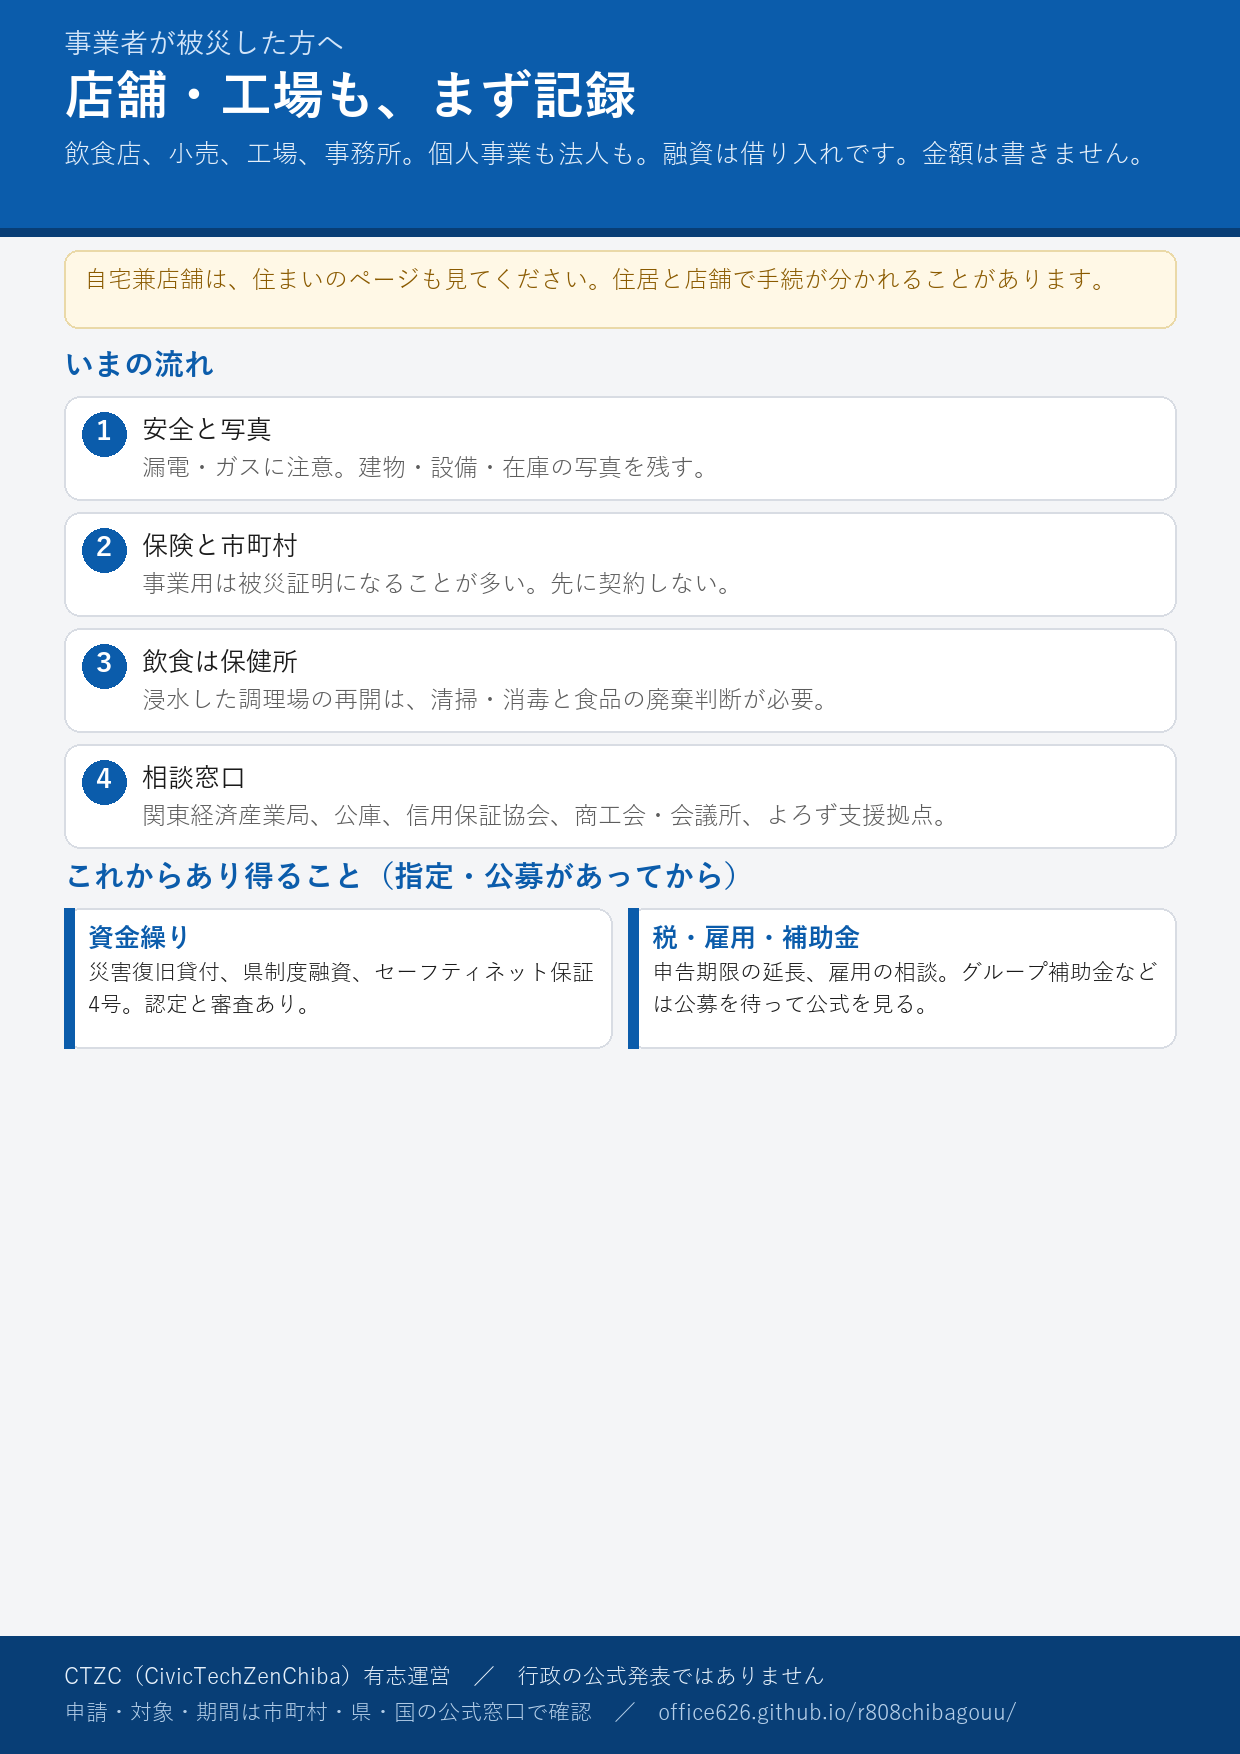
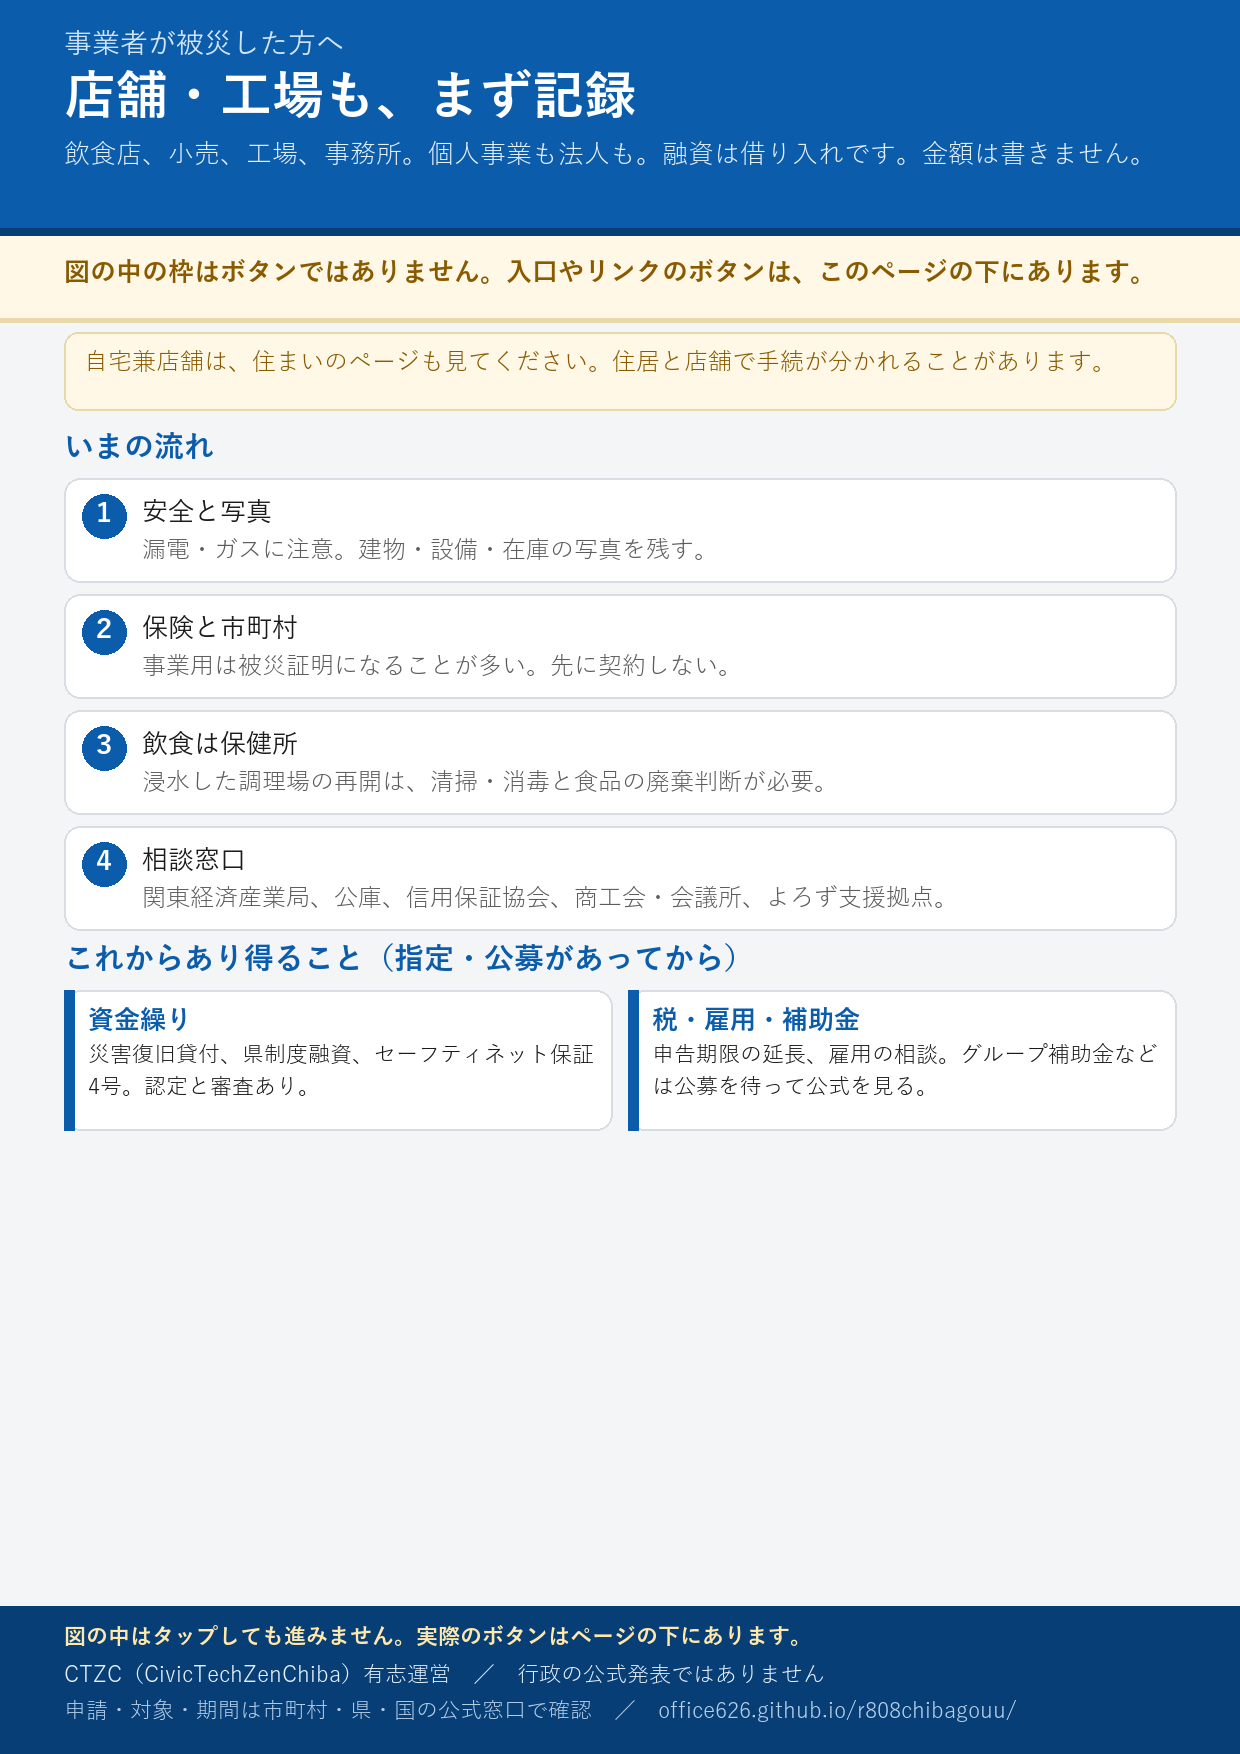
要点図がボタンに見える誤タップを防ぐ注意を足し、投票の初期並びを項目順にする。

diff --git a/site/supporters/ideas.html b/site/supporters/ideas.html
@@ -17,16 +17,17 @@
   </header>
   <main>
     <h1>被災後にあるとよいこと（投票）</h1>
+    <p class="notice infographic-hint"><strong>この図はボタンではありません。</strong> 実際の投票ボタンは、<a href="#page-actions">図の下</a>にあります。</p>
     <figure class="infographic">
-      <img src="../img/info-ideas.png" width="1240" height="1754" alt="A4縦の要点図。今後の案への投票。ログイン不要、1案1票、氏名は取らない。結果は参考値。救命や現地マッチングは対象外。">
-      <figcaption>このページの要点（A4縦）。印刷や画像保存ができます。<a href="../img/info-ideas.png" download>画像を保存</a></figcaption>
+      <img src="../img/info-ideas.png" width="1240" height="1754" alt="A4縦の要点図。図の中はボタンではない。実際の投票はページの下。">
+      <figcaption>このページの要点（A4縦）。図をタップしても進みません。ボタンは下にあります。<a href="../img/info-ideas.png" download>画像を保存</a></figcaption>
     </figure>
     <p class="notice" id="ideas-note">
       案は今後の機能追加や新しいサービスの参考にします。個人情報は取りません。申請・被害の申告は公式窓口へ。
     </p>
     <p id="tally" class="meta"></p>
     <p id="top-pick" class="notice" hidden></p>
-    <div class="idea-toolbar">
+    <div class="idea-toolbar" id="page-actions">
       <div class="chips" role="group" aria-label="種類で絞る">
         <button type="button" class="chip on" data-filter="all">すべて</button>
         <button type="button" class="chip" data-filter="info">情報</button>
@@ -35,6 +36,7 @@
       </div>
       <label class="sort-label">並び替え
         <select id="sort">
+          <option value="order" selected>項目順</option>
           <option value="votes">票が多い順</option>
           <option value="category">種類ごと</option>
         </select>

diff --git a/site/resident/municipality.html b/site/resident/municipality.html
@@ -21,12 +21,13 @@
   </header>
   <main>
     <h1 id="title">読み込み中</h1>
+    <p class="notice infographic-hint"><strong>この図はボタンではありません。</strong> 実際のボタンは、<a href="#page-actions">図の下</a>にあります。</p>
     <figure class="infographic">
-      <img src="../img/info-municipality.png" width="1240" height="1754" alt="A4縦の要点図。市町村ページの見方。いま、報道、支援策、行政の記録、生活再建の段取り。報道は見出しとリンクのみ。">
-      <figcaption>このページの要点（A4縦）。印刷や画像保存ができます。<a href="../img/info-municipality.png" download>画像を保存</a></figcaption>
+      <img src="../img/info-municipality.png" width="1240" height="1754" alt="A4縦の要点図。図の中はボタンではない。実際のボタンはページの下。市町村ページの見方。">
+      <figcaption>このページの要点（A4縦）。図をタップしても進みません。ボタンは下にあります。<a href="../img/info-municipality.png" download>画像を保存</a></figcaption>
     </figure>
     <p class="notice">有志による要約です。申請は公式へ。数値は速報で変わります。報道は見出しとリンクのみで、記事全文は転載していません。</p>
-    <p><a class="btn" id="official" href="#" target="_blank" rel="noopener">公式サイトへ</a>
+    <p id="page-actions"><a class="btn" id="official" href="#" target="_blank" rel="noopener">公式サイトへ</a>
       <a class="btn secondary" id="bousai" href="#" target="_blank" rel="noopener" hidden>防災・災害ページ</a>
       <a class="btn secondary" href="housing.html">住まいが被災した方へ</a>
       <a class="btn secondary" href="business.html">事業者が被災した方へ</a></p>

diff --git a/site/supporters/index.html b/site/supporters/index.html
@@ -20,12 +20,13 @@
       <img src="../img/chiba-recovery-banner.jpg" width="1024" height="537" alt="令和8年8月千葉豪雨からの復旧のために。主催：CivicTechZenChiba。地図とパソコンを囲んで復旧を話し合う人たちのイラスト。">
     </p>
     <h1>支援・協働する方へ</h1>
+    <p class="notice infographic-hint"><strong>この図はボタンではありません。</strong> 実際のボタンは、<a href="#page-actions">図の下</a>にあります。</p>
     <figure class="infographic">
-      <img src="../img/info-supporters.png" width="1240" height="1754" alt="A4縦の要点図。公開情報の収集と拡散、Slack、投票。救命や現地マッチング、罹災調査そのものは担わない。">
-      <figcaption>このページの要点（A4縦）。印刷や画像保存ができます。<a href="../img/info-supporters.png" download>画像を保存</a></figcaption>
+      <img src="../img/info-supporters.png" width="1240" height="1754" alt="A4縦の要点図。図の中はボタンではない。実際のボタンはページの下。Slackと投票。">
+      <figcaption>このページの要点（A4縦）。図をタップしても進みません。ボタンは下にあります。<a href="../img/info-supporters.png" download>画像を保存</a></figcaption>
     </figure>
     <p>豪雨被害から一刻も早い復旧を支援する活動。まずは行政・報道の公開情報を集め、県民の皆様へ情報を届ける活動から着手します。今後新たな支援策も検討し実行していきます。</p>
-    <p>
+    <p id="page-actions">
       <a class="btn" href="https://civictechzenchiba.slack.com/archives/C0BPSMN4L5D">Slack に参加する</a>
       <a class="btn secondary" href="ideas.html">今後の案に投票する</a>
     </p>

diff --git a/site/index.html b/site/index.html
@@ -13,15 +13,16 @@
   </header>
   <main>
     <h1>令和8年8月千葉豪雨 復興支援ポータル</h1>
+    <p class="notice infographic-hint"><strong>この図はボタンではありません。</strong> 実際の入口は、<a href="#page-actions">図の下</a>にあります。</p>
     <figure class="infographic">
-      <img src="img/info-portal.png" width="1240" height="1754" alt="A4縦の要点図。千葉県にお住まいの方へと支援者向けの二つの入口。公式が一次情報、数値は速報、申請は窓口へ。CTZC有志運営で行政の公式発表ではない。">
-      <figcaption>このページの要点（A4縦）。印刷や画像保存ができます。<a href="img/info-portal.png" download>画像を保存</a></figcaption>
+      <img src="img/info-portal.png" width="1240" height="1754" alt="A4縦の要点図。図の中はボタンではない。実際の入口はページの下。千葉県にお住まいの方へと支援者向け。公式が一次情報。CTZC有志運営。">
+      <figcaption>このページの要点（A4縦）。図をタップしても進みません。ボタンは下にあります。<a href="img/info-portal.png" download>画像を保存</a></figcaption>
     </figure>
     <p class="notice">
       本サイトは CTZC の有志による運営であり、<strong>行政の公式発表ではありません</strong>。
       申請・問い合わせは千葉県および各市町村の公式窓口へ。最新情報は必ず公式サイトで確認してください。
     </p>
-    <div class="doors">
+    <div class="doors" id="page-actions">
       <a class="door" href="resident/index.html">
         <strong>千葉県にお住まいの方へ</strong>
         被害の経過と、住まい・移動・事業者・支援策を見る

diff --git a/site/resident/business.html b/site/resident/business.html
@@ -20,15 +20,16 @@
   </header>
   <main>
     <h1>事業者が被災した方へ</h1>
+    <p class="notice infographic-hint"><strong>この図はボタンではありません。</strong> 実際のリンクは、<a href="#page-actions">図の下</a>にあります。</p>
     <figure class="infographic">
-      <img src="../img/info-business.png" width="1240" height="1754" alt="A4縦の要点図。店舗工場はまず記録。保険と市町村、飲食は保健所、相談は経産局や公庫など。融資保証や補助金は指定・公募があってから。">
-      <figcaption>このページの要点（A4縦）。印刷や画像保存ができます。<a href="../img/info-business.png" download>画像を保存</a></figcaption>
+      <img src="../img/info-business.png" width="1240" height="1754" alt="A4縦の要点図。図の中はボタンではない。実際のリンクはページの下。店舗工場はまず記録。相談は経産局や公庫など。">
+      <figcaption>このページの要点（A4縦）。図をタップしても進みません。ボタンは下にあります。<a href="../img/info-business.png" download>画像を保存</a></figcaption>
     </figure>
     <p class="notice">
       飲食店・小売・工場・事務所など、事業用の施設や設備が被災した方向けの案内です。有志運営であり申請窓口ではありません。対象・期間・受付開始は公式で確認してください。金額は書きません。適用可否は各実施機関の判断です。
     </p>
 
-    <div class="card">
+    <div class="card" id="page-actions">
       <h2>このページの対象</h2>
       <p>店舗を開いている方、工場や倉庫、事業所です。個人事業も法人も含みます。</p>
       <ul>

diff --git a/site/resident/housing.html b/site/resident/housing.html
@@ -20,15 +20,16 @@
   </header>
   <main>
     <h1>住まいが被災した方へ</h1>
+    <p class="notice infographic-hint"><strong>この図はボタンではありません。</strong> 実際のリンクは、<a href="#page-actions">図の下</a>にあります。</p>
     <figure class="infographic">
-      <img src="../img/info-housing.png" width="1240" height="1754" alt="A4縦の要点図。片付け前に写真、契約前に市町村案内、保険へ連絡。罹災証明書は住まい、被災証明書は事業所や車庫。先に修理契約すると公費補助が受けられない場合がある。">
-      <figcaption>このページの要点（A4縦）。印刷や画像保存ができます。<a href="../img/info-housing.png" download>画像を保存</a></figcaption>
+      <img src="../img/info-housing.png" width="1240" height="1754" alt="A4縦の要点図。図の中はボタンではない。実際のリンクはページの下。片付け前に写真、罹災証明と被災証明の違い。">
+      <figcaption>このページの要点（A4縦）。図をタップしても進みません。ボタンは下にあります。<a href="../img/info-housing.png" download>画像を保存</a></figcaption>
     </figure>
     <p class="notice">
       有志運営です。申請窓口ではありません。対象・期間・金額・受付開始は、お住まいの市町村と県・国の公式で確認してください。適用可否は各実施機関の判断です。
     </p>
 
-    <div class="card">
+    <div class="card" id="page-actions">
       <h2>いますぐやること</h2>
       <p>片付けや修理の前に、記録を残すことが先です。写真はサイトに送らないでください。</p>
       <ol class="steps">

diff --git a/site/resident/life.html b/site/resident/life.html
@@ -20,15 +20,16 @@
   </header>
   <main>
     <h1>移動と生活</h1>
+    <p class="notice infographic-hint"><strong>この図はボタンではありません。</strong> 実際のリンクは、<a href="#page-actions">図の下</a>にあります。</p>
     <figure class="infographic">
-      <img src="../img/info-life.png" width="1240" height="1754" alt="A4縦の要点図。電車バス、道路、電気ガス水道、医療薬局、スーパーは各公式で確認。このサイトに区間名や店名の一覧は載せない。">
-      <figcaption>このページの要点（A4縦）。印刷や画像保存ができます。<a href="../img/info-life.png" download>画像を保存</a></figcaption>
+      <img src="../img/info-life.png" width="1240" height="1754" alt="A4縦の要点図。図の中はボタンではない。実際のリンクはページの下。電車バス、道路、電気ガス水道は各公式で確認。">
+      <figcaption>このページの要点（A4縦）。図をタップしても進みません。ボタンは下にあります。<a href="../img/info-life.png" download>画像を保存</a></figcaption>
     </figure>
     <p class="notice">
       お盆明けに県内を移動する方、ライフラインや買い物で困っている方向けの公式への案内です。運行・通行止め・営業は刻々と変わります。このページに最新の区間名や店名の一覧は載せません。必ずリンク先で確認してください。
     </p>
 
-    <div class="card">
+    <div class="card" id="page-actions">
       <h2>電車・バス</h2>
       <p>外房線・東金線など、土砂や冠水の影響が残る線区があります。代替手段も公式の案内が先です。</p>
       <ul>

diff --git a/site/resident/index.html b/site/resident/index.html
@@ -20,12 +20,13 @@
   </header>
   <main>
     <h1>千葉県にお住まいの方へ</h1>
+    <p class="notice infographic-hint"><strong>この図はボタンではありません。</strong> 実際の入口は、<a href="#page-actions">図の下</a>にあります。</p>
     <figure class="infographic">
-      <img src="../img/info-resident.png" width="1240" height="1754" alt="A4縦の要点図。住まい、移動と生活、事業者の三つの案内と市町村検索。公式は県防災ポータル、県の大雨対応、気象庁、市町村。">
-      <figcaption>このページの要点（A4縦）。印刷や画像保存ができます。<a href="../img/info-resident.png" download>画像を保存</a></figcaption>
+      <img src="../img/info-resident.png" width="1240" height="1754" alt="A4縦の要点図。図の中はボタンではない。実際の入口はページの下。住まい、移動と生活、事業者と市町村検索。">
+      <figcaption>このページの要点（A4縦）。図をタップしても進みません。ボタンは下にあります。<a href="../img/info-resident.png" download>画像を保存</a></figcaption>
     </figure>
     <p class="notice" id="notice">有志運営です。申請は各公式窓口へ。最新は必ず公式で確認してください。</p>
-    <div class="doors three">
+    <div class="doors three" id="page-actions">
       <a class="door" href="housing.html">
         <strong>住まいが被災した方</strong>
         いますぐの写真、罹災証明と被災証明の違い、注意事項

diff --git a/site/resident/municipalities.html b/site/resident/municipalities.html
@@ -20,12 +20,13 @@
   </header>
   <main>
     <h1>市町村から探す</h1>
+    <p class="notice infographic-hint"><strong>この図はボタンではありません。</strong> 実際の市町村一覧は、<a href="#page-actions">図の下</a>にあります。</p>
     <figure class="infographic">
-      <img src="../img/info-municipalities.png" width="1240" height="1754" alt="A4縦の要点図。54市町村の入口。市町村ページ、公式リンク、避難所や救助法のバッジ。空欄でも市町村公式が一次情報。">
-      <figcaption>このページの要点（A4縦）。印刷や画像保存ができます。<a href="../img/info-municipalities.png" download>画像を保存</a></figcaption>
+      <img src="../img/info-municipalities.png" width="1240" height="1754" alt="A4縦の要点図。図の中はボタンではない。実際の一覧はページの下。54市町村の入口。">
+      <figcaption>このページの要点（A4縦）。図をタップしても進みません。ボタンは下にあります。<a href="../img/info-municipalities.png" download>画像を保存</a></figcaption>
     </figure>
     <p>全市町村に、県防災ポータルの避難・避難所のスナップショットを載せています。初日対象（レベル5および流山市）は警報・救助法の件も厚くしています。</p>
-    <h2>初日対象</h2>
+    <h2 id="page-actions">初日対象</h2>
     <ul class="list" id="day1"></ul>
     <h2>その他</h2>
     <ul class="list" id="rest"></ul>

diff --git a/site/resident/prefecture.html b/site/resident/prefecture.html
@@ -21,12 +21,13 @@
   </header>
   <main>
     <h1>県・国の支援情報（公式への案内）</h1>
+    <p class="notice infographic-hint"><strong>この図はボタンではありません。</strong> 実際のリンクは、<a href="#page-actions">図の下</a>にあります。</p>
     <figure class="infographic">
-      <img src="../img/info-prefecture.png" width="1240" height="1754" alt="A4縦の要点図。県の防災ポータルと救助法、国の内閣府・消防庁・気象庁、事業者向け相談。本文は転載せずリンク先で確認。">
-      <figcaption>このページの要点（A4縦）。印刷や画像保存ができます。<a href="../img/info-prefecture.png" download>画像を保存</a></figcaption>
+      <img src="../img/info-prefecture.png" width="1240" height="1754" alt="A4縦の要点図。図の中はボタンではない。実際のリンクはページの下。県と国の公式案内。">
+      <figcaption>このページの要点（A4縦）。図をタップしても進みません。ボタンは下にあります。<a href="../img/info-prefecture.png" download>画像を保存</a></figcaption>
     </figure>
     <p class="notice">本文は転載しません。リンク先で確認してください。数値は速報です。</p>
-    <div class="card">
+    <div class="card" id="page-actions">
       <h2>千葉県 <span class="badge admin">行政</span></h2>
       <ul>
         <li><a href="https://www.bousai.pref.chiba.lg.jp/">千葉県防災ポータル</a></li>

diff --git a/site/js/ideas-vote.js b/site/js/ideas-vote.js
@@ -5,7 +5,7 @@
   var serverCounts = {};
   var endpoint = "";
   var filter = "all";
-  var sortBy = "votes";
+  var sortBy = "order";
   var busy = false;
 
   function uuid() {
@@ -77,8 +77,12 @@
         if (d) return d;
         if (!!mine.votes[b.id] !== !!mine.votes[a.id]) return mine.votes[b.id] ? -1 : 1;
       }
-      var order = { info: 0, feature: 1, action: 2 };
-      return (order[a.category] || 9) - (order[b.category] || 9);
+      if (sortBy === "category") {
+        var cat = { info: 0, feature: 1, action: 2 };
+        var c = (cat[a.category] || 9) - (cat[b.category] || 9);
+        if (c) return c;
+      }
+      return (a._i || 0) - (b._i || 0);
     });
     root.innerHTML = "";
     if (!rows.length) {
@@ -195,6 +199,7 @@
     fetch("../data/vote-config.json").then(function (r) { return r.json(); }).catch(function () { return {}; })
   ]).then(function (pair) {
     ideas = (pair[0] && pair[0].ideas) || [];
+    ideas.forEach(function (it, i) { it._i = i; });
     var note = document.getElementById("ideas-note");
     if (note && pair[0].note) note.textContent = pair[0].note;
     endpoint = normalizeEndpoint((pair[1] && pair[1].endpoint) || "");

diff --git a/site/css/style.css b/site/css/style.css
@@ -129,6 +129,7 @@ footer {
   background: #d7e4f0;
 }
 .infographic { margin: 0 0 1.25rem; }
+#page-actions { scroll-margin-top: 0.75rem; }
 .infographic img {
   display: block;
   width: 100%;
